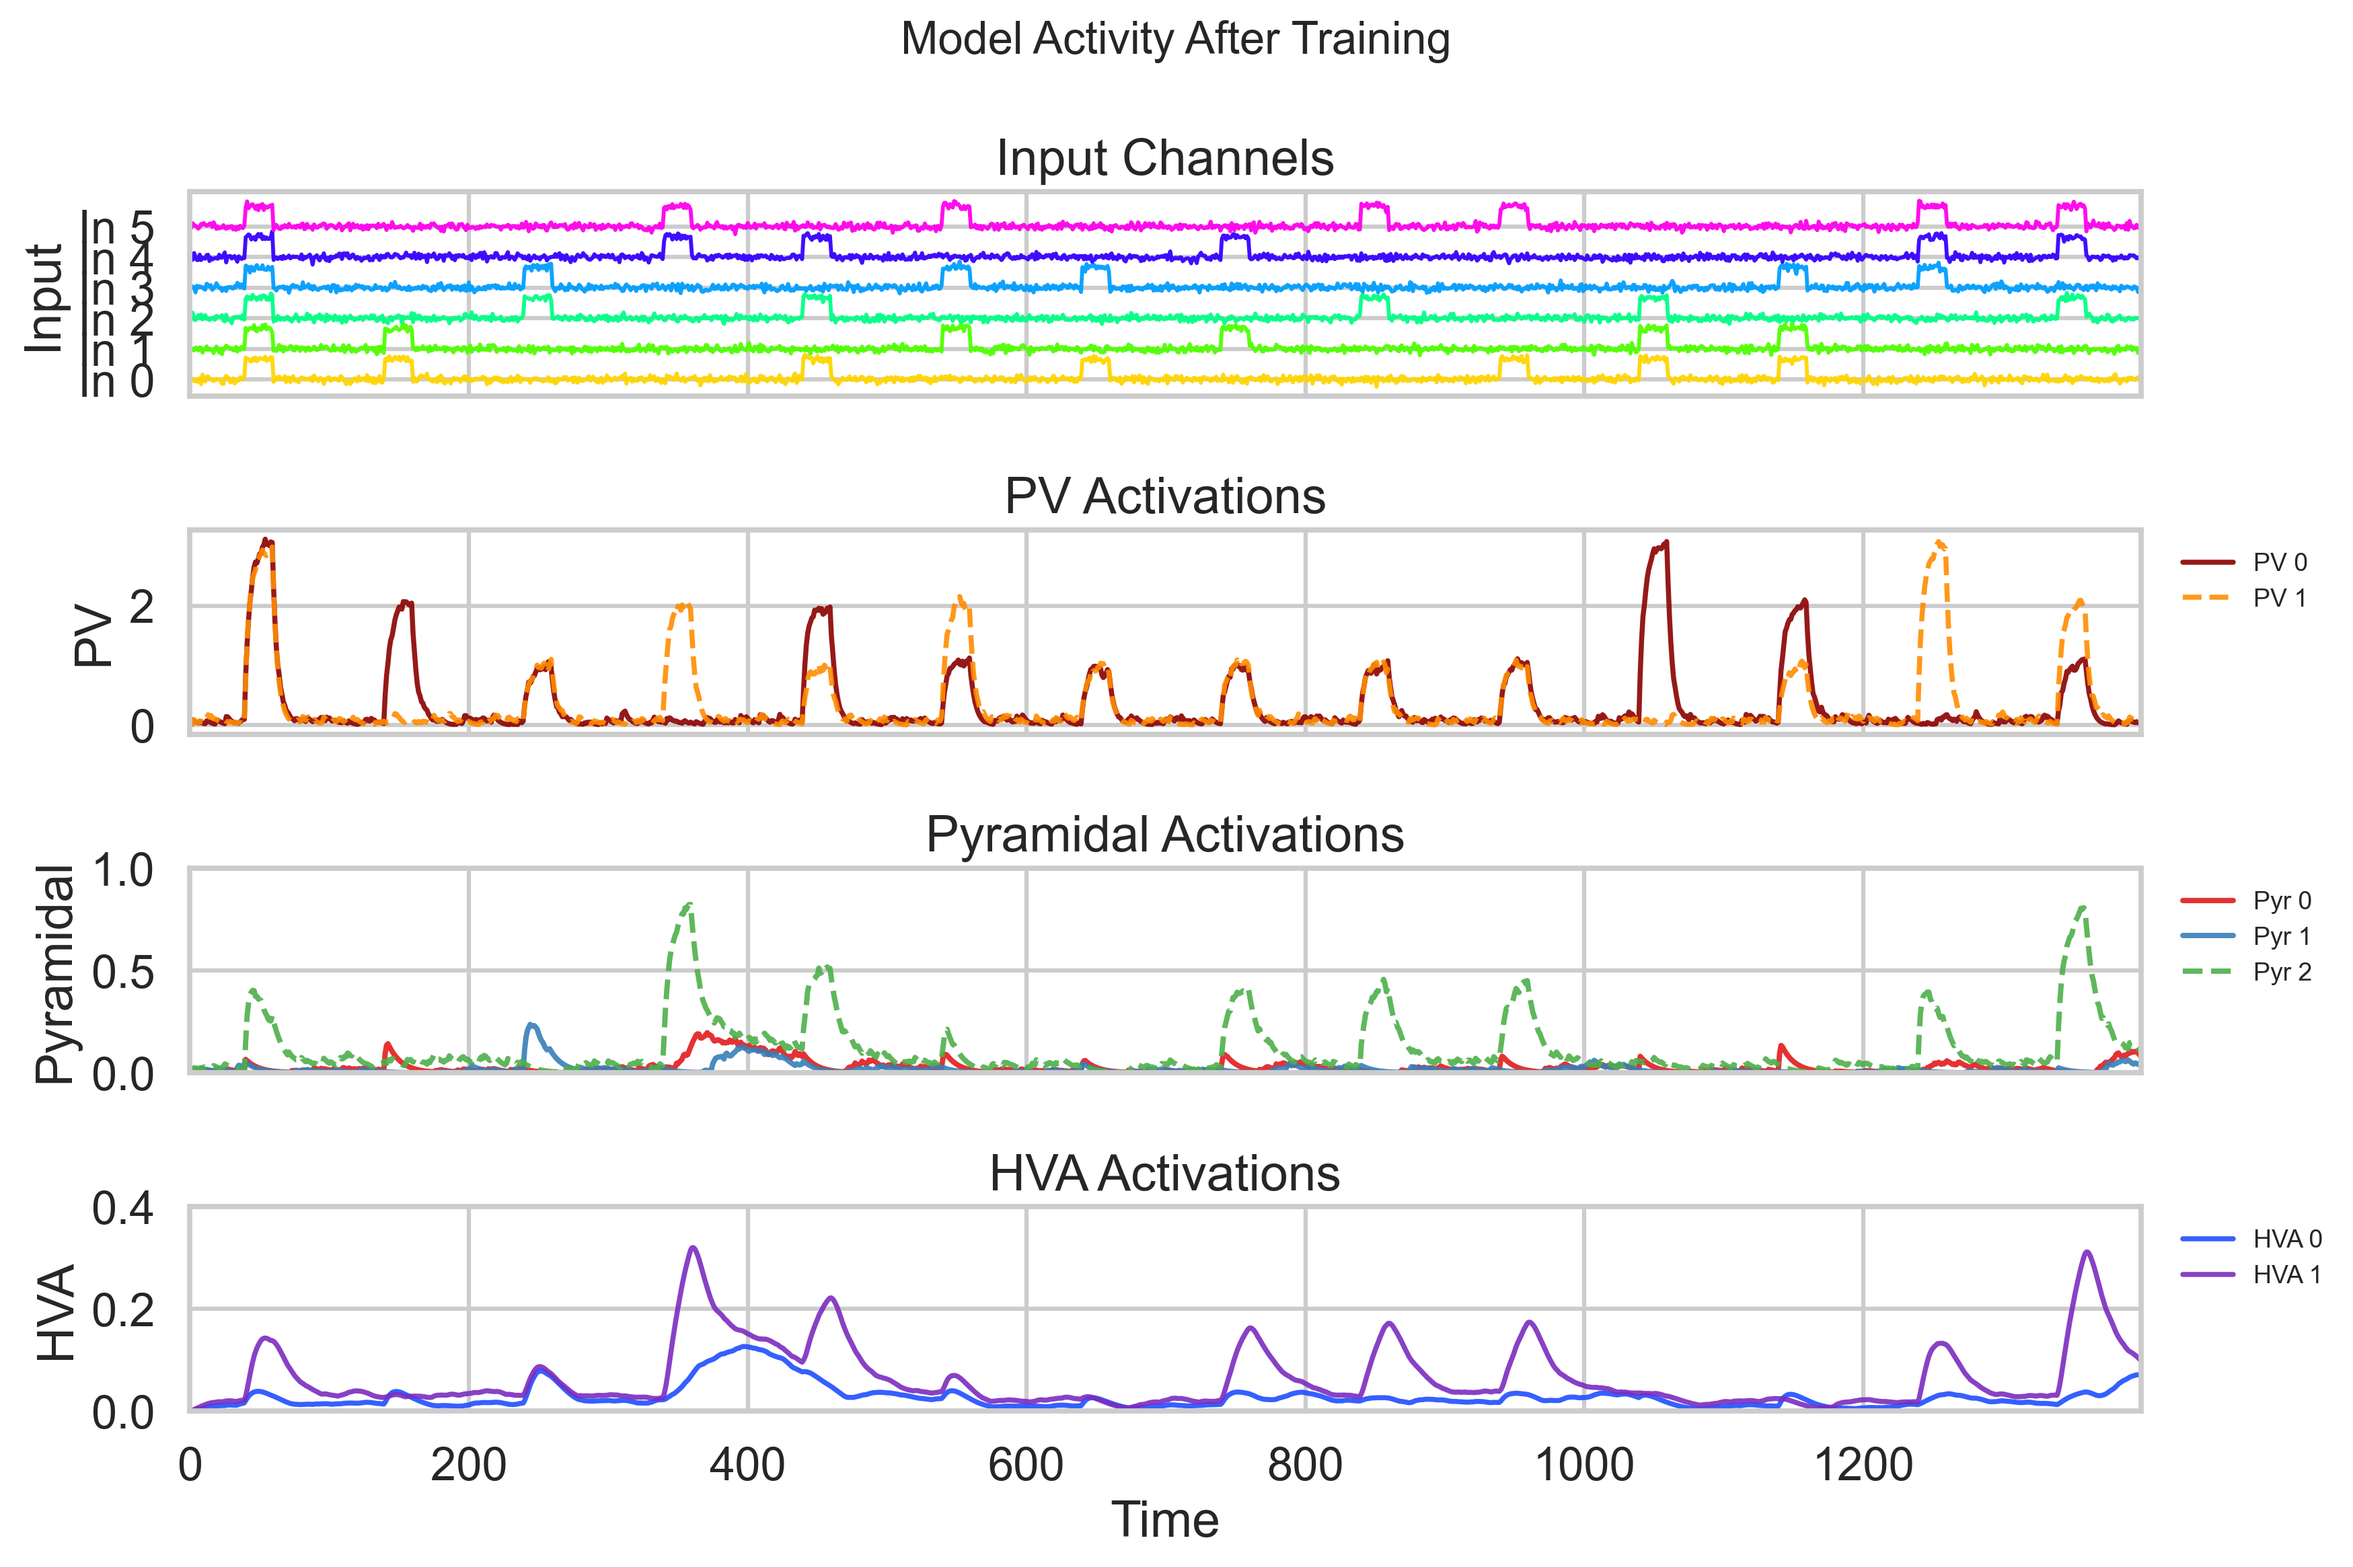
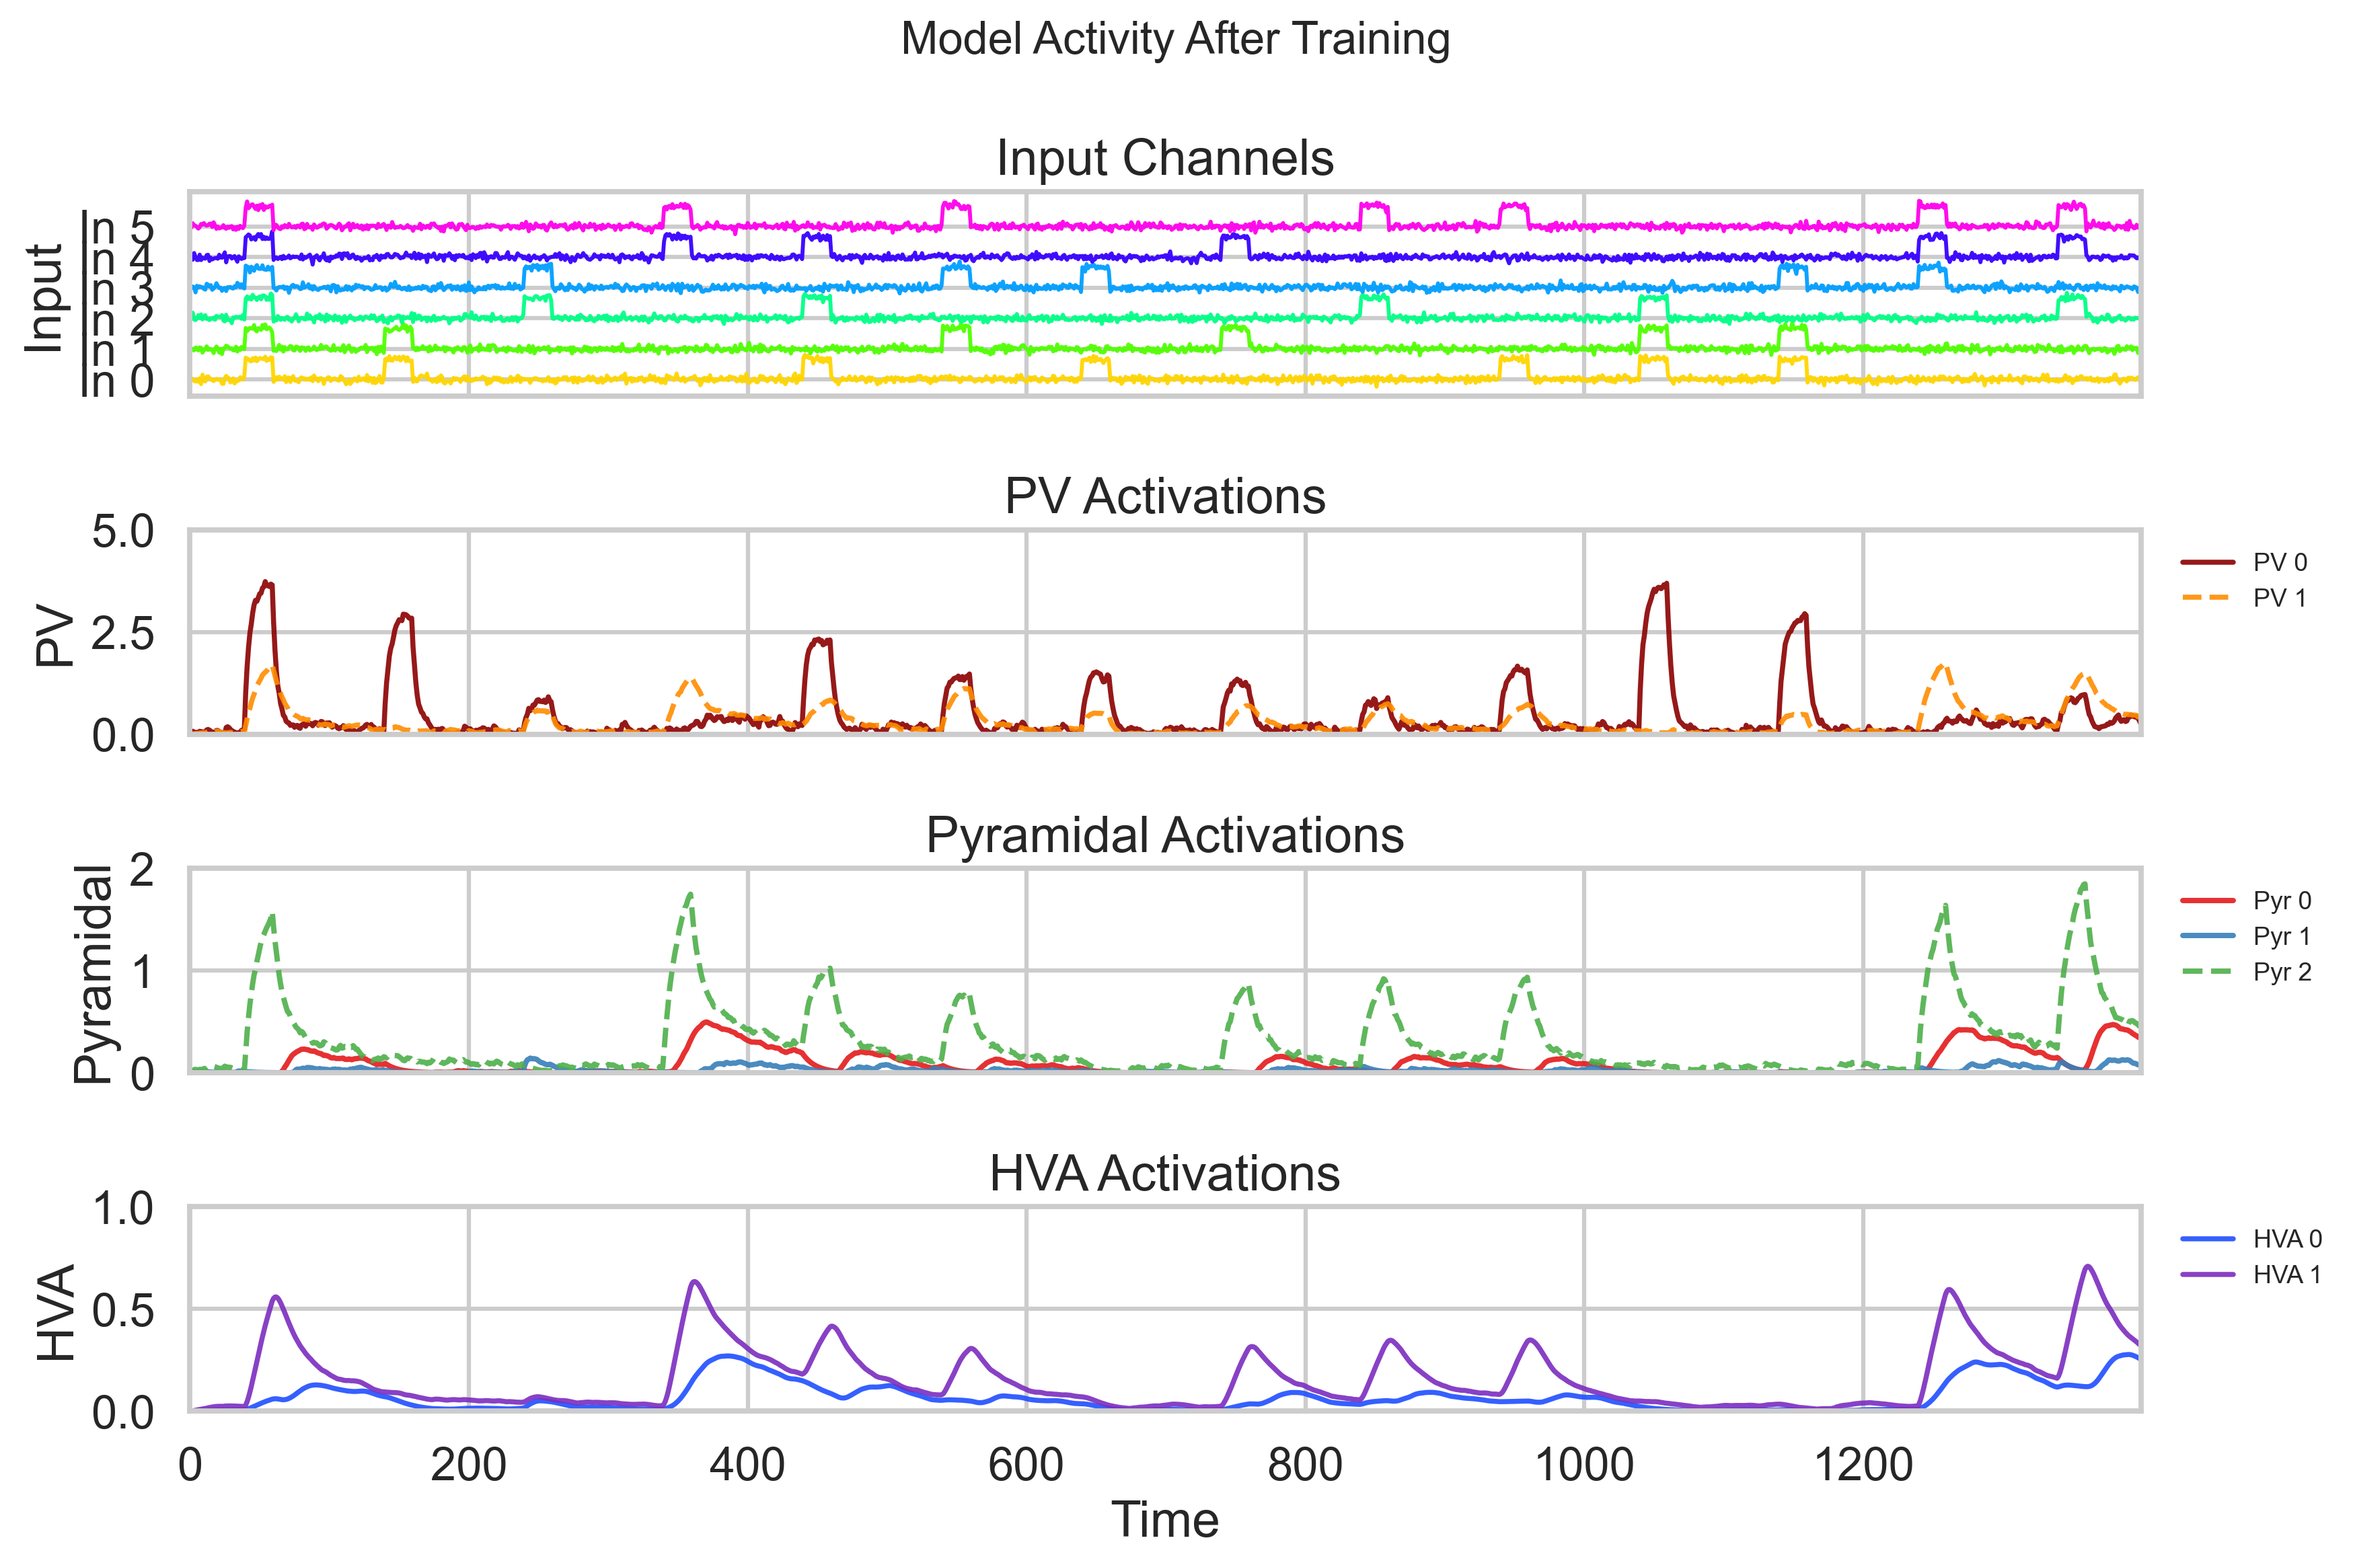
implement lateral inhibition + hebbian FF inhibition rule

diff --git a/cc/minimal/minimal.py b/cc/minimal/minimal.py
@@ -10,8 +10,15 @@ class Minimal(torch.nn.Module):
                  HVA_tuning:torch.Tensor | None = None,
                  cell_type_alphas:dict[str: float] = {'PV': 0.25, 'Pyramidal': 0.1}): # PV: 'fast spiking'
         '''
-        NOTE: Currently PV cells perform feedforward inhibition, instead of lateral inhibition
-        TODO: implement lateral inhibition by PVs, and update receptive fields and masks accordingly
+        ✅NOTE: Currently PV cells perform feedforward inhibition, instead of lateral inhibition
+            TODO: implement lateral inhibition by PVs, and update receptive fields and masks accordingly
+            TODO: PV hebbian FF plasticity (become selective to inputs that drive them to fire)
+
+        NOTE: Current FB learning rule is Hebbian
+            TODO: try anti-Hebbian FB learning rule:
+                - general strengthening (or Hebbian wrt other HVA neuron activations)
+                (apical dendrite behave like small neuron, LTP-like process when multiple apical inputs at once)
+                - anti-Hebbian wrt PyC receiving FB
         '''
         super().__init__()
         # Store parameters
@@ -24,33 +31,43 @@ class Minimal(torch.nn.Module):
         # Pyramidal neuron receptive fields (non-overlapping)
         self.RF_y_i = torch.arange(n_inputs).view(n_pyramidal, -1)  
         # Pyramidal neuron Parvalbumin inputs (overlapping)
-        self.RF_y_pv = [[p for p, p_in in enumerate(
+        self.RF_y_pv = [[pv for pv, y_in in enumerate(
             zip(list(range(n_pyramidal)), list(range(n_pyramidal))[1:]))
-                        if y in p_in] for y in range(n_pyramidal)]
-        # Parvalbumin (PV) neuron receptive fields (non-overlapping)
-        self.RF_pv = torch.arange(n_inputs).view(n_pv, -1)
+                        if y in y_in] for y in range(n_pyramidal)]
+        
+        # Parvalbumin (PV) neuron FF receptive fields (non-overlapping)
+        self.RF_pv_ff = torch.arange(n_inputs).view(n_pv, -1)
+        # Parvalbumin (PV) neuron lateral receptive fields (overlapping)
+        self.RF_pv_lateral = [[y_in for pv, y_in in enumerate(
+            zip(list(range(n_pyramidal)), list(range(n_pyramidal))[1:]))
+                        if Pv == pv] for Pv in range(n_pv)]
+
         # HVA neuron receptive fields (overlapping)
         self.RF_hva = torch.arange(n_pyramidal).tile(n_hva).view(n_hva, -1)
 
         # Define layers weights
         # Layer 1 W_FFpv: Input-Parvalbumin (PV) neuron weights (PV x I)
-        self.W_FFpv = torch.nn.Parameter(torch.ones(n_pv, n_inputs, requires_grad=False))
+        self.W_FFpv = torch.nn.Parameter(0.1*torch.ones(n_pv, n_inputs, requires_grad=False))
+        # Layer 1 W_LatPV: Lateral Y-PV weights (PV x Y)
+        self.W_LatPV = torch.nn.Parameter(0.75*torch.ones(n_pv, n_pyramidal), requires_grad=False)
         # Layer 1 W_FFy: Feedforward Input-Pyramidal neuron (Y) weights (Y x I)
         self.W_FFy = torch.nn.Parameter(torch.ones(n_pyramidal, n_inputs), requires_grad=False)
         # Layer 1 W_Iy: Inhibitory PV-Pyramidal neuron weights (Y x PV)
-        self.W_Iy = torch.nn.Parameter(0.6*torch.ones(n_pyramidal, n_pv), requires_grad=False)
+        self.W_Iy = torch.nn.Parameter(0.3*torch.ones(n_pyramidal, n_pv), requires_grad=False)
         # Layer 2 W_FFh: Feedforward Pyramidal-HVA neuron weights (HVA x Y)
         if HVA_tuning is not None: # initialize with specific tuning pattern
             assert HVA_tuning.shape == (n_hva, n_pyramidal), "HVA_tuning must have shape (n_hva, n_pyramidal)"
             self.W_FFh = torch.nn.Parameter(HVA_tuning, requires_grad=False)
-        else: # initialize with random weights
+        else: # initialize with constant weights
             self.W_FFh = torch.nn.Parameter(torch.ones(n_hva, n_pyramidal), requires_grad=False)
         # Layer 2 W_FBy: Feedback HVA-Pyramidal neuron weights (Y x HVA)
-        self.W_FBy = torch.nn.Parameter(0.01*torch.ones(n_pyramidal, n_hva), requires_grad=False)
+        self.W_FBy = torch.nn.Parameter(0.1*torch.ones(n_pyramidal, n_hva), requires_grad=False)
 
         # Create boolean masks for local weights based on receptive fields
         # Mask for W_FFpv (PV x I): each PV neuron connects to inputs in its RF
-        self.mask_FFpv = self._create_mask_RF(n_pv, n_inputs, self.RF_pv)
+        self.mask_FFpv = self._create_mask_RF(n_pv, n_inputs, self.RF_pv_ff)
+        # Mask for W_LatPV (PV x Y): each PV neuron connects to pyramidal neurons in its lateral RF
+        self.mask_LatPV = self._create_mask_RF(n_pv, n_pyramidal, self.RF_pv_lateral)
         # Mask for W_Iy (Y x PV): inhibition from PV to pyramidal
         self.mask_Iy = self._create_mask_RF(n_pyramidal, n_pv, self.RF_y_pv)
         # Mask for W_FFy (Y x I): each pyramidal neuron connects to inputs in its RF
@@ -63,15 +80,25 @@ class Minimal(torch.nn.Module):
         # Neuron nonlinear activation function (e.g., sigmoid, tanh, ReLU)
         self.activation = torch.nn.ReLU() # benefit of ReLU, stay 0 at 0 input
 
-        # Define exponential moving averages for tracking neuron history
+        # Define exponential moving averages (decay) for neuron activations
         self.ema_pv = EMA(shape=self.n_pv, alpha=cell_type_alphas['PV'])
         self.ema_pyramidal = EMA(shape=self.n_pyramidal, alpha=cell_type_alphas['Pyramidal'])
         self.ema_hva = EMA(shape=self.n_hva, alpha=cell_type_alphas['Pyramidal'])
 
         # learning rates for local learning rules
         self.lr_Iy = torch.nn.Parameter(torch.tensor(0.0025))  # learning rate for inhibitory PV-Pyramidal weights
-        self.lr_FFy = torch.nn.Parameter(torch.tensor(0.0035))  # learning rate for feedforward Input-Pyramidal weights
-        self.lr_FBy = torch.nn.Parameter(torch.tensor(0.005))  # learning rate for feedback HVA-Pyramidal weights
+        self.lr_FFy = torch.nn.Parameter(torch.tensor(0.005))  # learning rate for feedforward Input-Pyramidal weights
+        self.lr_FBy = torch.nn.Parameter(torch.tensor(0.0035))  # learning rate for feedback HVA-Pyramidal weights
+        self.lr_FFpv = torch.nn.Parameter(torch.tensor(0.0015))  # learning rate for feedforward Input-PV weights
+
+        # Define exponential moving averages (decay) for weights (to enable weight decay / forgetting)
+        # alpha controls history dependence and stability of weights (how many steps it takes to decay to baseline); 
+        # lower alpha means slower decay and more history dependence (eg. 1e-4, takes 10000 steps to decay to baseline))
+        self.ema_FFy = EMA(shape=(n_pyramidal, n_inputs), alpha=1e-4, baseline=self.W_FFy.detach().clone())  # for feedforward Input-Pyramidal weights
+        self.ema_Iy = EMA(shape=(n_pyramidal, n_pv), alpha=1e-4, baseline=self.W_Iy.detach().clone())  # for inhibitory PV-Pyramidal weights
+        self.ema_FBy = EMA(shape=(n_pyramidal, n_hva), alpha=1e-4, baseline=self.W_FBy.detach().clone())  # for feedback HVA-Pyramidal weights
+        self.ema_LatPV = EMA(shape=(n_pv, n_pyramidal), alpha=1e-4, baseline=self.W_LatPV.detach().clone())  # for lateral PV-Pyramidal weights
+        self.ema_Ipv = EMA(shape=(n_pv, n_inputs), alpha=1e-4, baseline=self.W_FFpv.detach().clone())  # for feedforward Input-PV weights
 
     def forward(self, I:torch.Tensor, train:bool = False) -> torch.Tensor:
         # To store pyramidal, PV, and HVA activations over time
@@ -81,9 +108,14 @@ class Minimal(torch.nn.Module):
                'Time': torch.arange(I.shape[0])}
         # Initialize HVA neuron activations
         hva = self.ema_hva.ema
+        pyramidal = self.ema_pyramidal.ema
         for t, stim in enumerate(I):
             # PV neuron activations based on current stimulus
-            pv = self.ema_pv(self.activation((nonnegative(self.W_FFpv)*self.mask_FFpv) @ stim))
+            pv = (nonnegative(self.W_FFpv)*self.mask_FFpv) @ stim
+            # Add lateral activation of PV by pyramidal
+            pv += (nonnegative(self.W_LatPV)*self.mask_LatPV) @ pyramidal
+            pv = self.ema_pv(self.activation(pv))  # apply EMA to PV activations
+
             # pyramidal neuron activations based on 
             pyramidal = (nonnegative(self.W_FFy)*self.mask_FFy) @ stim  # feedforward input (current stimulus)
             pyramidal -= (nonnegative(self.W_Iy)*self.mask_Iy) @ pv  # PV inhibition
@@ -107,6 +139,7 @@ class Minimal(torch.nn.Module):
             W_Iy (Hebbian in Y & PC)
             W_FFy (Anti-Hebbian in Y & I)
             W_FBy (Hebbian in Y & HVA)
+            W_FFpv (Hebbian in PV & Input)
         
         Input args:
             stim: current input stimulus (n_inputs)
@@ -116,8 +149,10 @@ class Minimal(torch.nn.Module):
         '''
         # Hebbian delta W_Iy (masked)
         self.W_Iy += self.lr_Iy * torch.outer(pyramidal, pv) * self.mask_Iy
+        # Hebbian delta W_FFpv (masked) - inhibition becomes more specific to inputs that drive PV activation
+        self.W_FFpv += self.lr_FFpv * torch.outer(pv, stim) * self.mask_FFpv
         
-        # Anti-Hebbian delta W_FFy (masked)
+        # Anti-Hebbian delta W_FFy (masked) - adaptation
         self.W_FFy -= self.lr_FFy * torch.outer(pyramidal, stim) * self.mask_FFy
         
         # Hebbian delta W_FBy (masked)

diff --git a/cc/minimal/utils.py b/cc/minimal/utils.py
@@ -6,18 +6,22 @@ import torch
 
 class EMA(torch.nn.Module):
     '''
-    EMA = Discretized Leaky Integrator
+    EMA (Exponential Moving Average) = Discretized Leaky Integrator
         Low alpha: slower integration, more history dependence, more decay
         High alpha: faster integration, more current input dependence, less decay
+    
+    If basline is provided, decay towards baseline in absence of input; 
+        otherwise, decay towards 0.
     '''
-    def __init__(self, shape:tuple, alpha:float = 0.1):
+    def __init__(self, shape:tuple, alpha:float = 0.1, baseline:torch.Tensor | None = None):
         super().__init__()
         self.alpha = alpha
         self.ema = torch.zeros(shape, requires_grad=False)
+        self.baseline = baseline if baseline is not None else torch.zeros(shape, requires_grad=False)
     
     def forward(self, x:torch.Tensor) -> torch.Tensor:
         self.ema = (1 - self.alpha) * self.ema + self.alpha * x
-        return self.ema
+        return self.ema + self.baseline
     
     def reset_state(self):
         self.ema.zero_()
@@ -103,6 +107,8 @@ def plot_out(out: dict, I: torch.Tensor | None = None,
         axes[row].plot(time, pv[i], color=pv_colors[i], linestyle = '--' if i == 1 else '-', label=f"PV {i}",
                        alpha=0.9, linewidth=1.8)
     axes[row].set_ylabel("PV")
+    # make y axis log-scale
+    axes[row].set_ylim(bottom=0, top=5)
     axes[row].set_title("PV Activations")
     axes[row].legend(loc="upper left", bbox_to_anchor=(1.01, 1), fontsize=9, ncol=1, frameon=False)
     row += 1
@@ -119,7 +125,7 @@ def plot_out(out: dict, I: torch.Tensor | None = None,
             label=f"Pyr {i}",
         )
     axes[row].set_ylabel("Pyramidal")
-    axes[row].set_ylim(bottom=0, top=1)
+    axes[row].set_ylim(bottom=0, top=2)
     axes[row].set_title("Pyramidal Activations")
     axes[row].legend(loc="upper left", bbox_to_anchor=(1.01, 1), fontsize=9, ncol=1, frameon=False)
     row += 1
@@ -128,7 +134,7 @@ def plot_out(out: dict, I: torch.Tensor | None = None,
     for i in range(hva.shape[0]):
         axes[row].plot(time, hva[i], color=hva_colors[i], alpha=0.9, linewidth=1.8, label=f"HVA {i}")
     axes[row].set_ylabel("HVA")
-    axes[row].set_ylim(bottom=0, top=0.4)
+    axes[row].set_ylim(bottom=0, top=1)
     axes[row].set_title("HVA Activations")
     axes[row].set_xlabel("Time")
     axes[row].legend(loc="upper left", bbox_to_anchor=(1.01, 1), fontsize=9, ncol=1, frameon=False)
